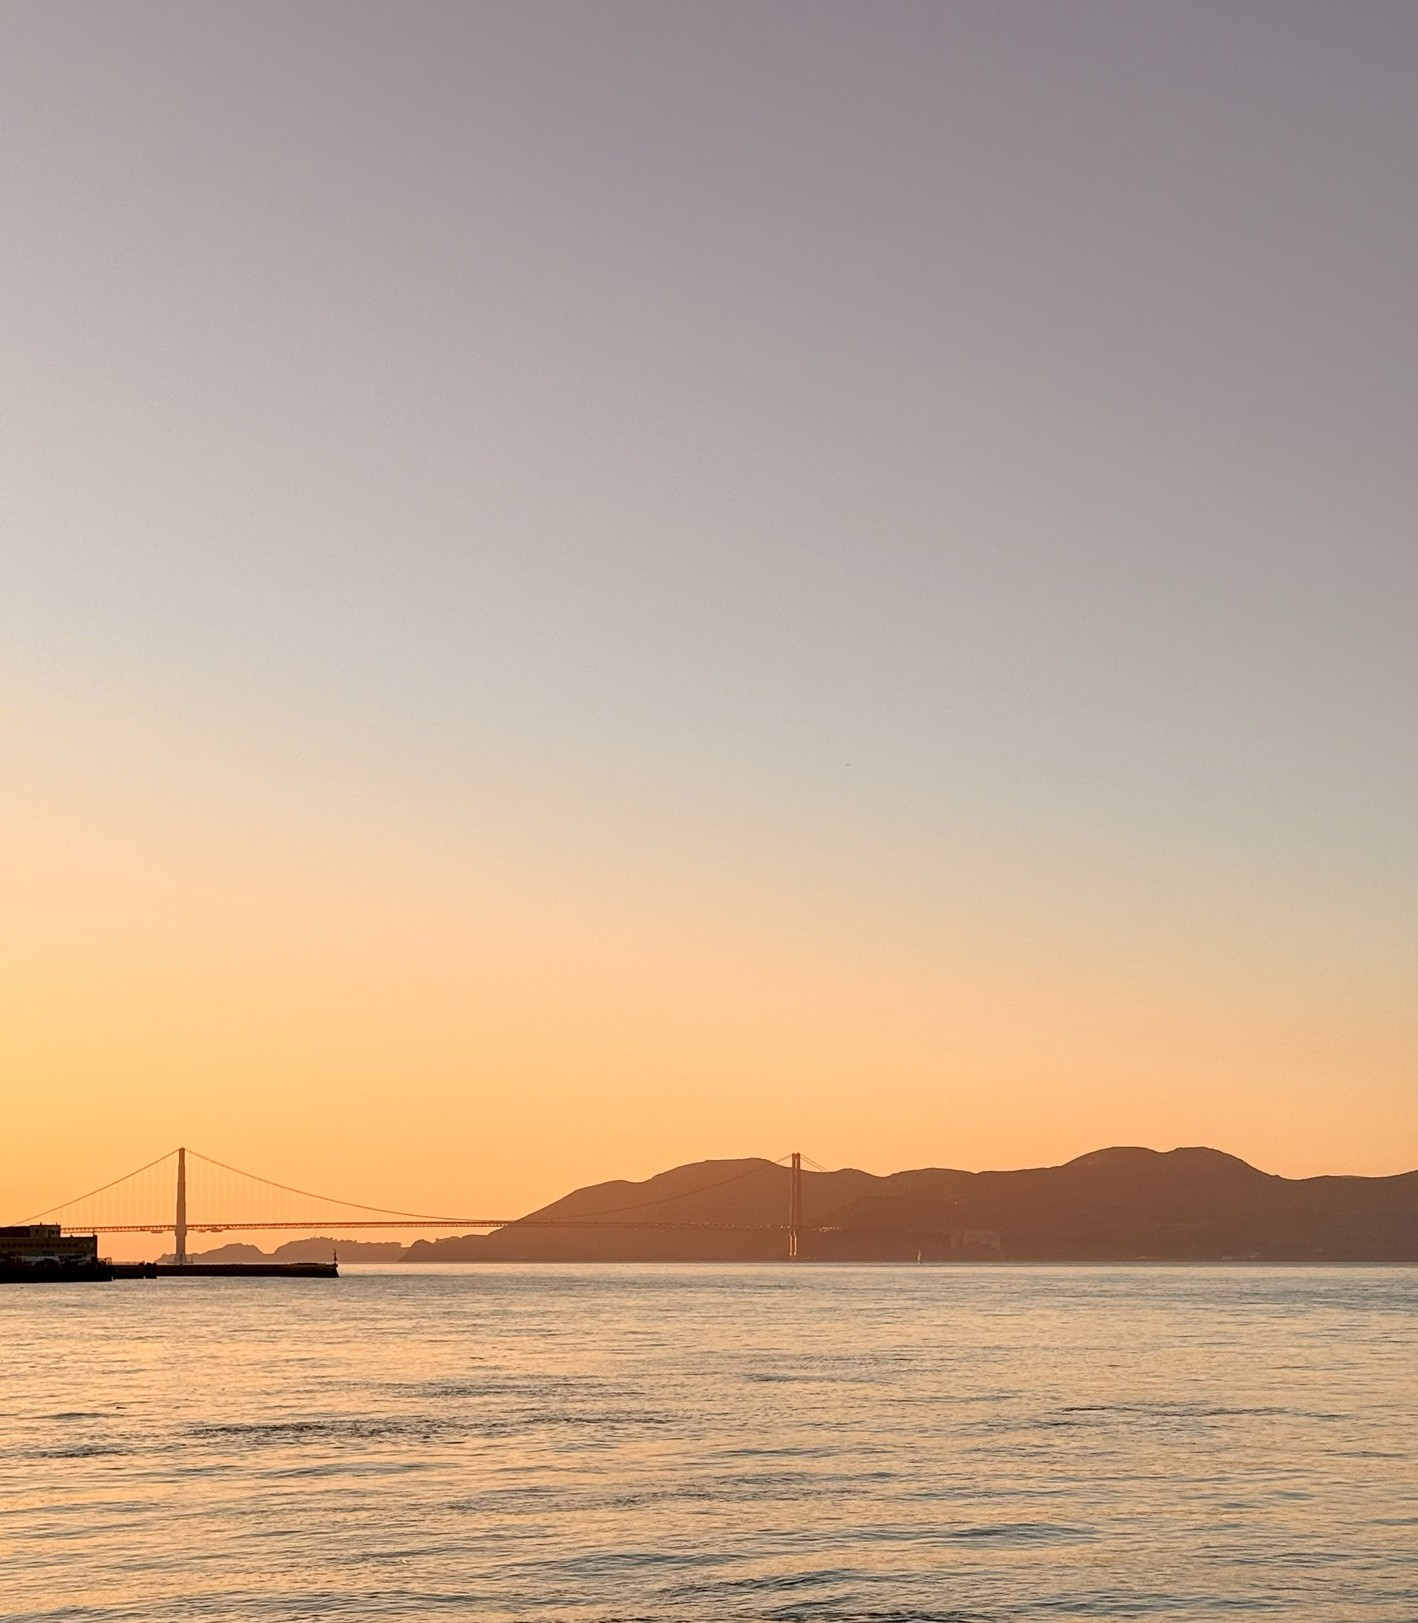
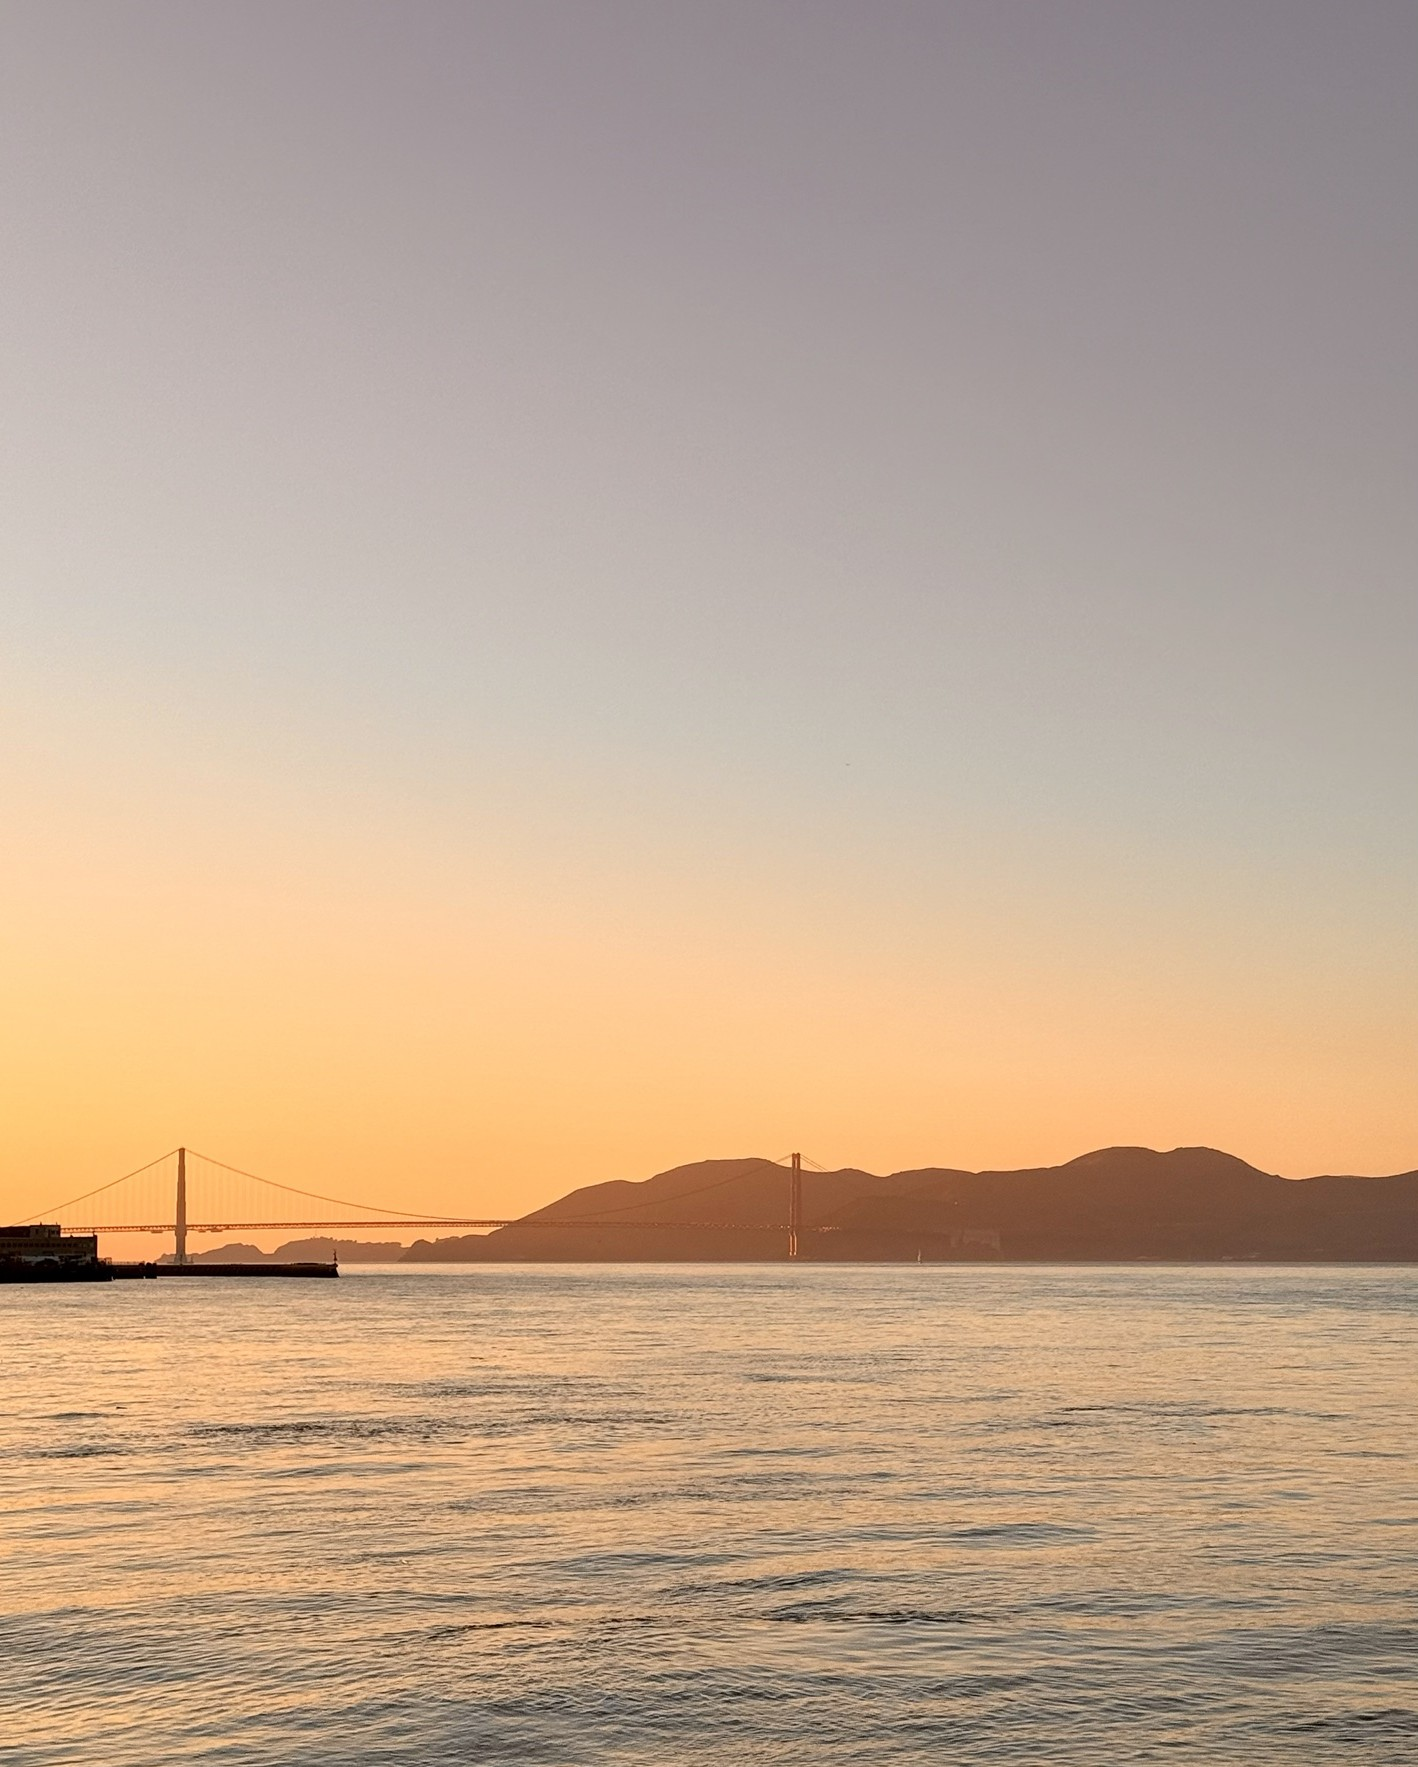
Add files via upload

Changed region(s): [[0.0, 0.6161, 1.0, 1.0]]

diff --git a/zeng/index.html b/zeng/index.html
@@ -360,6 +360,8 @@ img{max-width:100%;display:block}
 .hobby-copy{margin:0;max-width:72ch;color:var(--ink);text-wrap:pretty}
 .hobby-copy a{color:var(--cobalt);text-decoration:none;border-bottom:1px solid rgba(44,74,94,.3)}
 .hobby-copy a:hover{border-bottom-color:var(--cobalt)}
+.mail-inline{white-space:nowrap}
+.mail-inline .mail-ico{margin-right:.35em}
 .mailto{
   font-size:1.05rem;color:var(--ink);text-decoration:none;
   border-bottom:1px solid var(--rule);padding-bottom:.18rem;
@@ -534,30 +536,38 @@ img{max-width:100%;display:block}
    ============================================================ */
 #page-home{
   background:#B7ABA6 url(images/home-sunset.jpg) no-repeat;
-  background-size:cover;
-  /* Landscape screens: the photo fills the width and the bottom of the
-     screen sits just below the waterline, leaving a thin strip of water.
-     14.95vw = the 212px of photo below that point, at full-width scale. */
-  background-position:left 50% bottom -14.95vw;
+  /* Landscape screens: the photo fills the width, starting 101px in so the
+     pier building at its left edge stays out of frame (1317px of the 1418
+     are shown). The bottom of the screen sits just below the waterline,
+     leaving a thin strip of water: 27.03vw = the 356px of photo below it. */
+  background-size:107.67vw auto;
+  background-position:left -7.67vw bottom -27.03vw;
 }
 /* Text sits in the sky; the bottom padding keeps it clear of the bridge and
-   hills, which rise 18.7vw above the bottom of the screen. */
+   hills, which rise 20.1vw above the bottom of the screen. */
 #page-home .hero{
   grid-template-columns:minmax(0,1fr);
   grid-template-rows:auto auto;
   align-content:center;row-gap:0;
-  padding-block:clamp(2rem,6vh,4rem) calc(18.7vw + clamp(1.5rem,4vh,3rem));
+  padding-block:clamp(3rem,11vh,6.5rem) calc(20.1vw + clamp(1.5rem,4vh,3rem));
 }
 #page-home .hero-main{grid-row:1;align-self:auto}
-#page-home .hero-links{grid-row:2;align-self:auto;border-top:0;padding-top:clamp(1.2rem,3vh,1.9rem)}
+#page-home .hero-name{font-size:clamp(3rem,7vw,5.6rem)}
+#page-home .hero-line{margin-top:clamp(1.85rem,4.2vw,2.85rem)}
+#page-home .hero-links{grid-row:2;align-self:auto;border-top:0;padding-top:clamp(2.15rem,6.2vh,3.8rem)}
 
 /* Portrait screens (phones): the whole height shows, from the top of the sky
    to halfway down the water; the text stacks close together near the top. */
 @media (orientation:portrait){
-  #page-home{background-position:13.7% 0}
-  #page-home .hero{align-content:start;padding-block:13vh 2rem}
-  #page-home .hero-line{margin-top:1rem}
-  #page-home .hero-links{padding-top:1.3rem}
+  /* The screen shows 1623px of the photo's height: from 144px below the top
+     of the sky to the bottom of the file (70% of the water kept). It starts
+     101px in from the left, just past the pier building. */
+  #page-home{background-size:auto 108.87svh;background-position:left -6.22svh bottom 0}
+  #page-home .hero-name{font-size:clamp(3rem,8.4vw,6.75rem)}
+  /* centred in the sky: the hills start 38% up from the bottom of the screen */
+  #page-home .hero{align-content:center;padding-block:1.5rem calc(38.3svh + 2rem)}
+  #page-home .hero-line{margin-top:2.05rem}
+  #page-home .hero-links{padding-top:2.3rem}
 }
 
 /* ============================================================
@@ -1503,17 +1513,14 @@ img{max-width:100%;display:block}
             <div class="slide" data-cap="Ha Giang, Vietnam" data-file="images/photo-vietnam-buffalo.jpg">
               <img src="images/photo-vietnam-buffalo.jpg" alt="Water buffalo grazing below limestone karst peaks" loading="lazy">
             </div>
-            <div class="slide" data-cap="Shanghai, China" data-file="images/photo-yugarden.jpg">
-              <img src="images/photo-yugarden.jpg" alt="Illuminated upswept eaves of traditional Chinese architecture at night" loading="lazy">
-            </div>
             <div class="slide" data-cap="Vancouver, Canada" data-file="images/photo-lake.jpg">
               <img src="images/photo-lake.jpg" alt="Snow-covered evergreens reflected in a still lake under a pink and lavender sunrise sky" loading="lazy">
             </div>
             <div class="slide" data-cap="Pokhara, Nepal" data-file="images/photo-pokhara.jpg">
               <img src="images/photo-pokhara.jpg" alt="Rowing boats on a lake below mist-covered hills" loading="lazy">
             </div>
-            <div class="slide" data-cap="New York, USA" data-file="images/photo-ny-harbour.jpg">
-              <img src="images/photo-ny-harbour.jpg" alt="Masts and the skyline at sunset across the water" loading="lazy">
+            <div class="slide" data-cap="New York, USA" data-file="images/photo-ny-greenway.jpg">
+              <img src="images/photo-ny-greenway.jpg" alt="Tree-lined riverside bike path leading toward One World Trade Center" loading="lazy">
             </div>
           </div>
         </div>
@@ -1570,8 +1577,7 @@ img{max-width:100%;display:block}
       <div class="hobby-grid">
         <div class="hobby-text">
           <h2 class="hobby-title hobby-title--lg">Say hello</h2>
-          <p class="hobby-copy">Happy to chat about my <a href="#cv/research">research</a>, <a href="#cv/outreach">community work</a>, and/or life.</p>
-          <p style="margin:1.5rem 0 0"><a class="mailto" href="mailto:danlinz@student.ubc.ca"><svg class="mail-ico" viewBox="0 0 20 16" aria-hidden="true" fill="none" stroke="currentColor" stroke-width="1.4" stroke-linejoin="round"><rect x="1" y="1" width="18" height="14" rx="2.5"/><path d="M1.8 3.4L10 9.2l8.2-5.8"/></svg>Email me</a></p>
+          <p class="hobby-copy"><a class="mail-inline" href="mailto:danlinz@student.ubc.ca"><svg class="mail-ico" viewBox="0 0 20 16" aria-hidden="true" fill="none" stroke="currentColor" stroke-width="1.4" stroke-linejoin="round"><rect x="1" y="1" width="18" height="14" rx="2.5"/><path d="M1.8 3.4L10 9.2l8.2-5.8"/></svg>Email me</a> to chat about my <a href="#cv/research">research</a>, <a href="#cv/outreach">community work</a>, or life.</p>
         </div>
         <div class="hobby-text">
           <p class="hobby-copy">I&nbsp;was born in Sendai, Japan and grew up in Shanghai, China, then moved to Vancouver for high school. University took me east &mdash; an undergraduate degree in Toronto and a master&rsquo;s in Montr&eacute;al &mdash; before I&nbsp;came back to Vancouver for medicine.</p>
